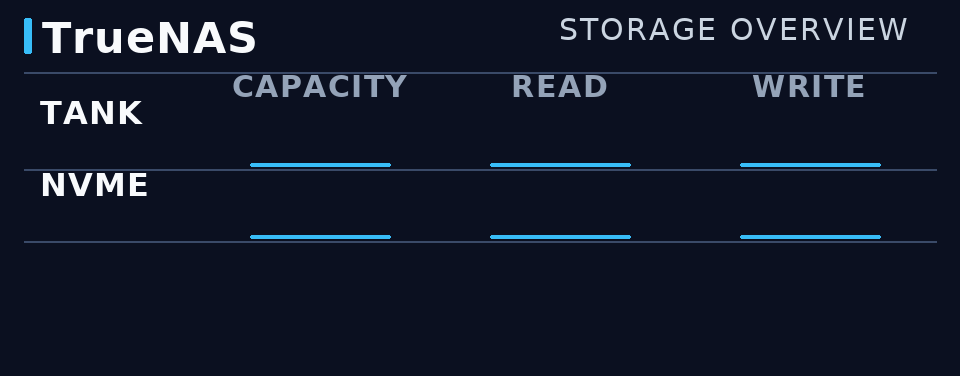
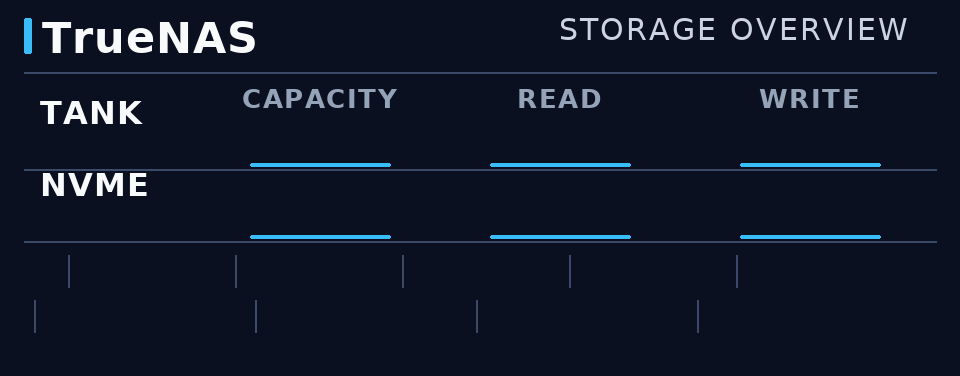
Add per-disk divider ticks; move/shrink CAPACITY/READ/WRITE headers
- A thin vertical tick before each disk in both temp-grid rows, purely
  decorative (static PNG, not a monitor.json field) -- breaks up 5-6
  adjacent name/temp/dot groups that otherwise read as one dense run of
  text.
- Column headers moved down (97->108) and shrunk (30->26). The 9th-pass
  comment believed 97 was pinned against the TANK/NVME row label's
  clearance -- that was never a real constraint (row label is at x=40,
  headers at x=320/560/810, horizontally disjoint). The real constraint is
  the header's own column vs the CAPACITY%/READ/WRITE values below it in
  that same x, which had ~24px of slack -- plenty of room to move down.

Changed region(s): [[0.2188, 0.1755, 0.4375, 0.2926], [0.7812, 0.1755, 0.9062, 0.2926], [0.5312, 0.1755, 0.6562, 0.2926]]

diff --git a/scripts/render-storage-bg.py b/scripts/render-storage-bg.py
@@ -138,11 +138,20 @@ d.line((24, 72, 936, 72), fill=DIVIDER, width=2)
 # (this file's static labels/bars/dividers AND monitor.json's dynamic
 # fields) re-verified with tools/pixel-probe against real worst-case
 # text -- see its README before changing any of this again.
+#
+# 11th pass (2026-08-17): column headers moved down (97->108) and shrunk
+# (30->26). The 9th-pass comment above believed 97 was already pinned
+# against the TANK/NVME row label's clearance -- re-checked this pass and
+# that was never a real constraint (the row label sits at x=40, headers at
+# x=320/560/810, horizontally disjoint, can't visually collide regardless
+# of y). The real constraint is the header's own column vs the CAPACITY%/
+# READ/WRITE values below it in that SAME x -- ~13px real clearance to
+# those at the new position, still comfortable.
 row_label_font = bold(32)
-col_header_font = bold(30)
+col_header_font = bold(26)
 COL_X = {"CAPACITY": 320, "READ": 560, "WRITE": 810}
 BAR_HALF_WIDTH = 70
-HEADER_Y = 97
+HEADER_Y = 108
 
 for text, x in COL_X.items():
     draw_spaced((x, HEADER_Y), text, col_header_font, LABEL, spacing=1.5, anchor_middle=True)
@@ -169,6 +178,21 @@ for row_label, label_y, bar_y, divider_y in (
 # fields, not health_ok/health_bad -- those are still written to
 # storage.txt for check-alert-supervisor.sh's alert-line text, just no
 # longer drawn on this page).
+#
+# 11th pass (2026-08-17): a thin vertical tick before each disk ("break
+# them up visually" -- 5-6 adjacent name/temp/dot groups otherwise read as
+# one dense run of text). Purely decorative/static, so drawn here rather
+# than as a monitor.json field -- these x's are the disk*_name /
+# nvme_disk*_name x's from monitor.json minus a small gap, and must be
+# kept in sync by hand if those ever move.
+TICK_HALF_HEIGHT = 16
+for row_y, disk_name_xs in (
+    (271, [82, 249, 416, 583, 750]),   # tank: disk1..5_name
+    (316, [48, 269, 490, 711]),        # nvme: nvme_disk1..4_name
+):
+    for name_x in disk_name_xs:
+        tick_x = name_x - 14
+        d.line((tick_x, row_y - TICK_HALF_HEIGHT, tick_x, row_y + TICK_HALF_HEIGHT), fill=DIVIDER, width=2)
 
 # Footer: entirely live monitor.json sensor fields -- status dot+text
 # (left), date_time (center), ip_address (right). Nothing left to draw
